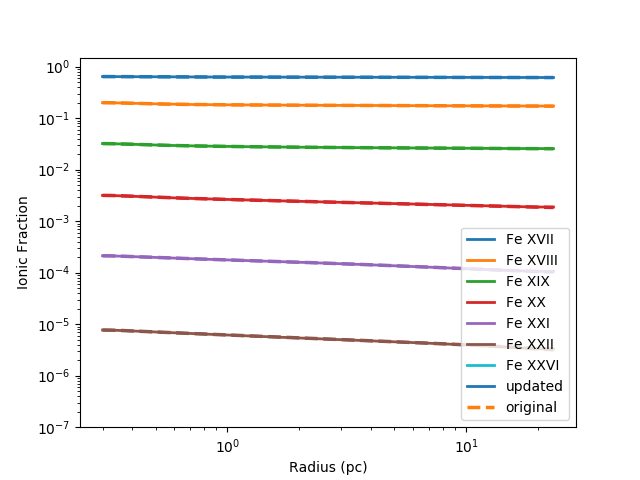
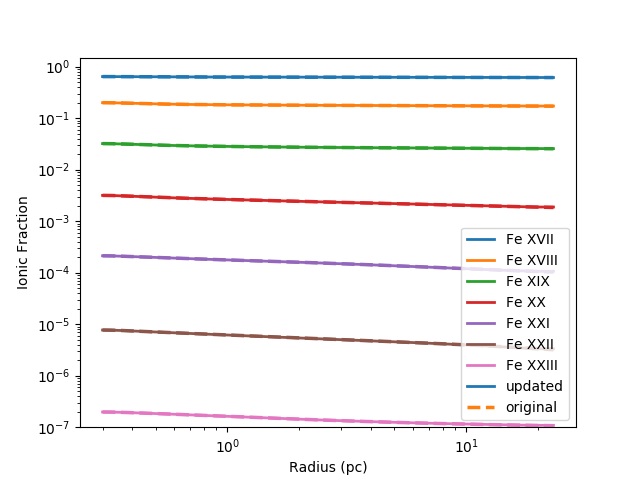
update the ionic fraction comparison plot

Changed region(s): [[0.1562, 0.8438, 0.875, 0.9062], [0.7188, 0.75, 0.7812, 0.7812], [0.8438, 0.75, 0.875, 0.7812]]

diff --git a/adiabatic/comp_plot_ionfrac.py b/adiabatic/comp_plot_ionfrac.py
@@ -30,17 +30,22 @@ nei_ionfrac = pickle.load(open(rootpath+'nei_case/tionfrac_nei.pkl','rb'))
 
 # Only compare the ionic fraction of C, N, O, Ne, Mg, and Si because of
 # the color table limit
-Zlist = [6,7,8,10,12,14]
+Zlist = [6,7,8,10,12,14,16,26]
 
 radius = conditions[0:ncondi]['R']/3.0856780e+18
 mpl.style.use('default')
 for Z in Zlist:
   elsymb = pyatomdb.atomic.Ztoelsymb(Z)
-  # ax = plt.figure()
-  for i in range(5,Z+1):
-    plt.plot(radius, nei_ionfrac[Z][i,0:ncondi], color='C'+"%s"%(i-5), \
+  if Z == 26:
+    begin_ion = 16
+    ion_range = [16,17,18,19,20,21,22]
+  else:
+    begin_ion = Z-5
+    ion_range = range(begin_ion,Z+1)
+  for i in ion_range:
+    plt.plot(radius, nei_ionfrac[Z][i,0:ncondi], color='C'+"%s"%(i-begin_ion), \
       linewidth=2, label=elsymb+' '+pyatomdb.atomic.int2roman(i+1))
-    plt.plot(radius, cie_ionfrac[Z][i,0:ncondi], color='C'+"%s"%(i-5), \
+    plt.plot(radius, cie_ionfrac[Z][i,0:ncondi], color='C'+"%s"%(i-begin_ion), \
       linewidth=2.5, linestyle='dashed')
   plt.plot(radius, np.zeros(ncondi), linewidth=2.5, \
     linestyle='dashed', label='CIE')
@@ -51,3 +56,4 @@ for Z in Zlist:
   plt.yscale('log')
   plt.legend(loc=0)
   plt.savefig(rootpath+'figures/comp_ionfrac/ionfrac_comp_%s.png' %elsymb)
+  plt.close()

diff --git a/adiabatic/nei_case/accu_check/comp_plot_ionfrac_accucheck.py b/adiabatic/nei_case/accu_check/comp_plot_ionfrac_accucheck.py
@@ -38,11 +38,10 @@ for Z in Zlist:
   elsymb = pyatomdb.atomic.Ztoelsymb(Z)
   if Z == 26:
     begin_ion = 16
-    ion_range = [16,17,18,19,20,21,25]
+    ion_range = [16,17,18,19,20,21,22]
   else:
     begin_ion = Z-5
     ion_range = range(begin_ion,Z+1)
-  # ax = plt.figure()
   for i in ion_range:
     plt.plot(radius, nei1_ionfrac[Z][i,0:ncondi], color='C'+"%s"%(i-begin_ion), \
       linewidth=2, label=elsymb+' '+pyatomdb.atomic.int2roman(i+1))
